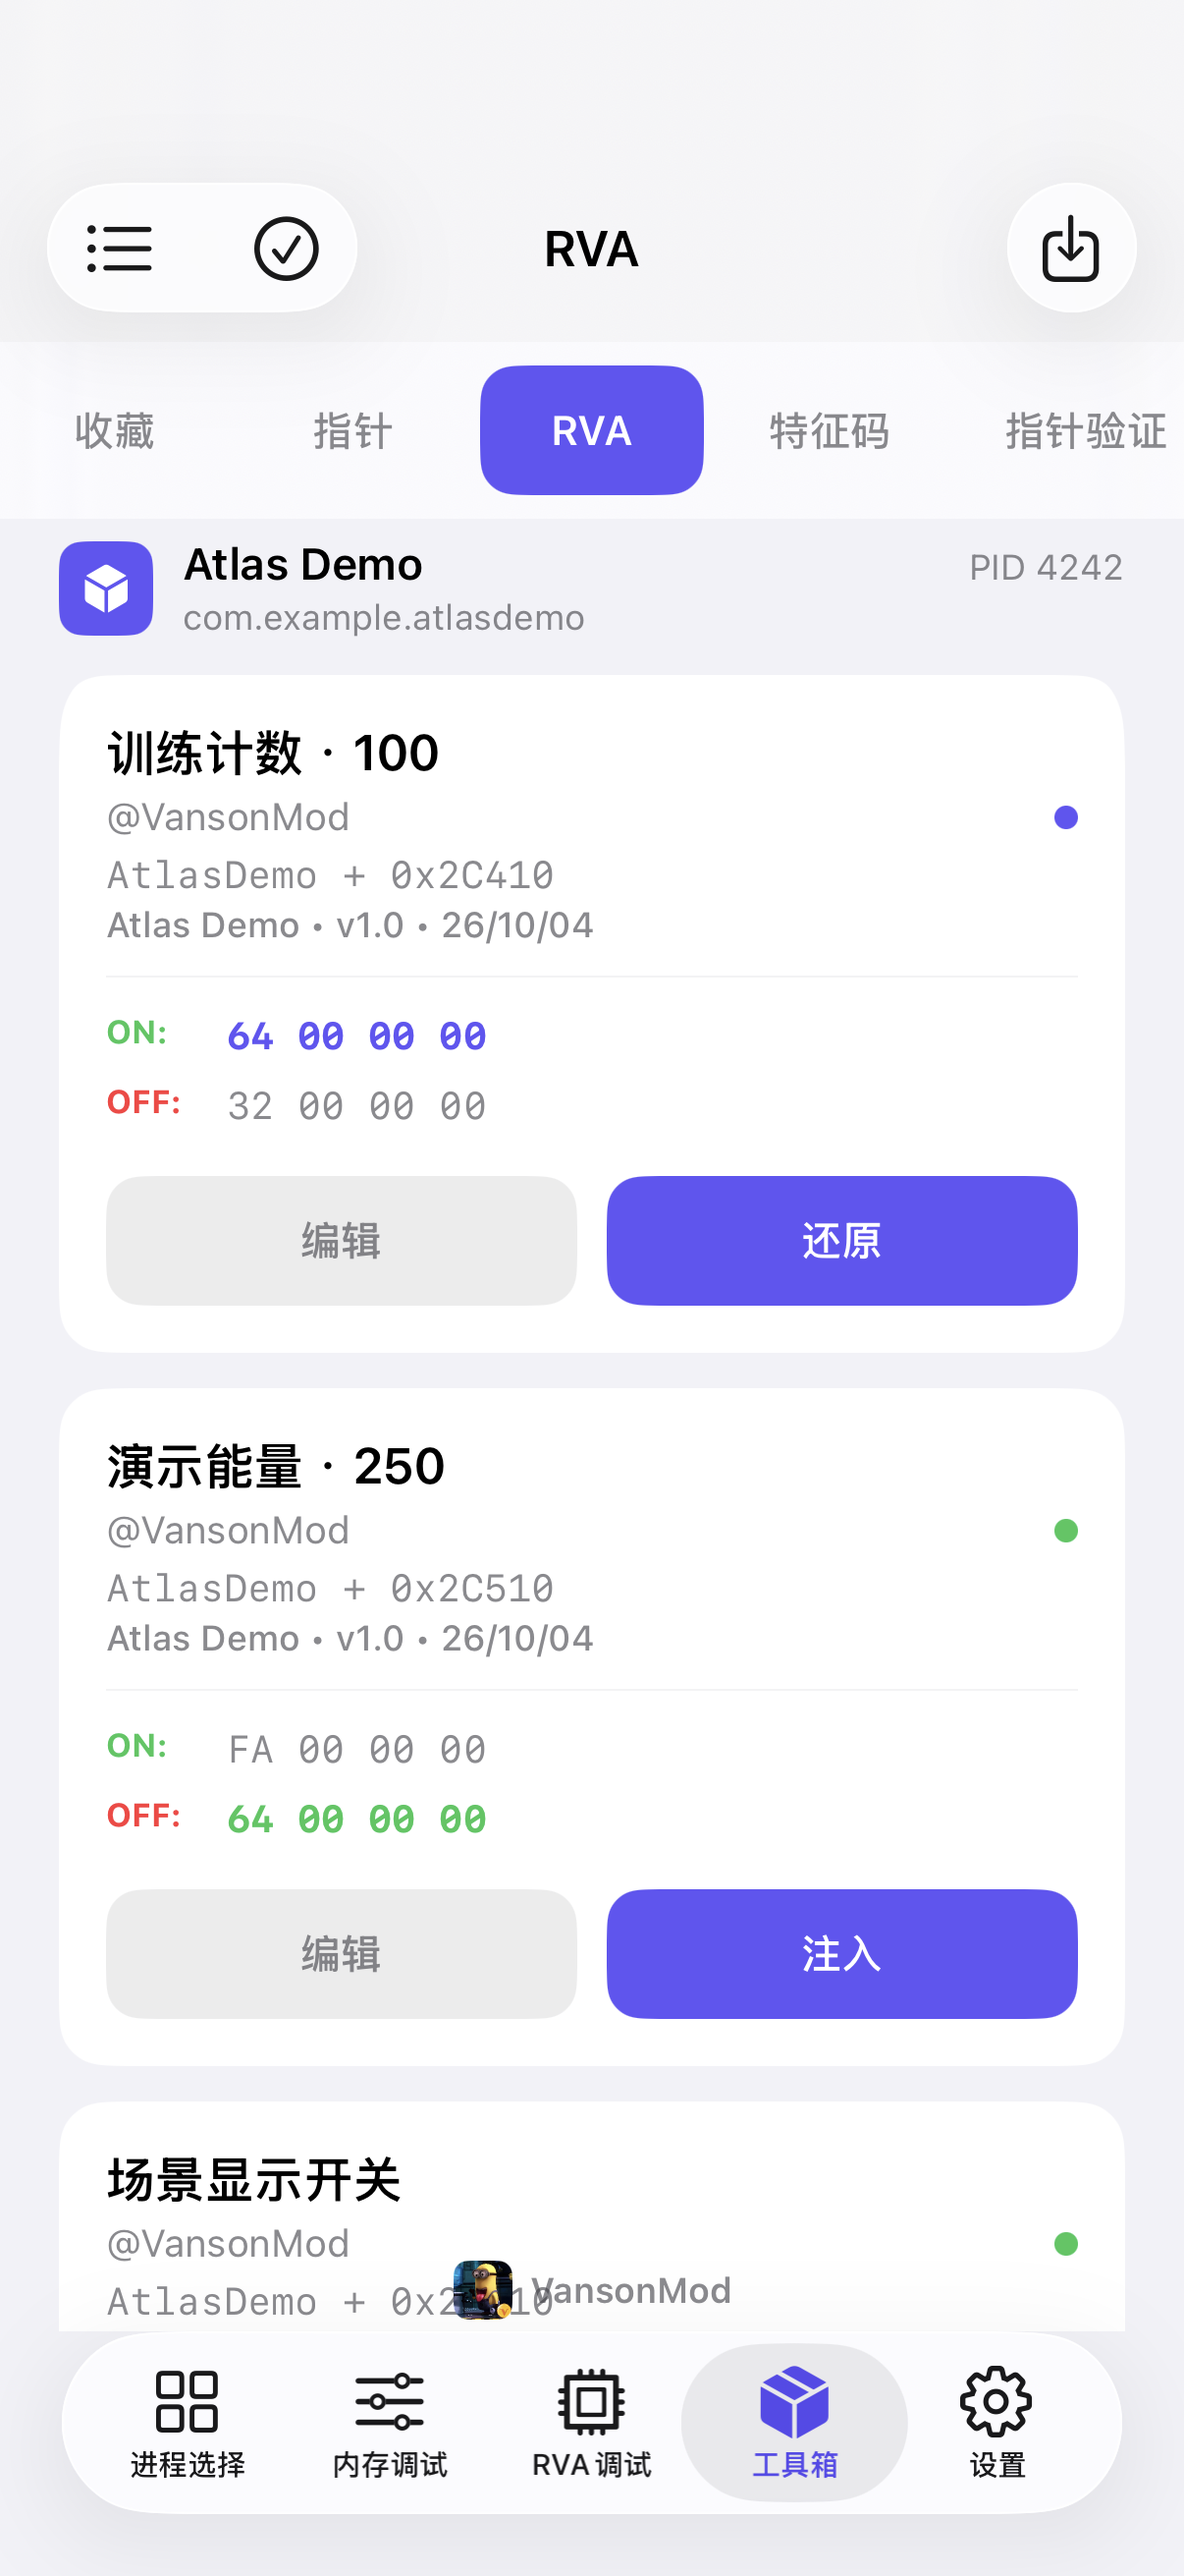
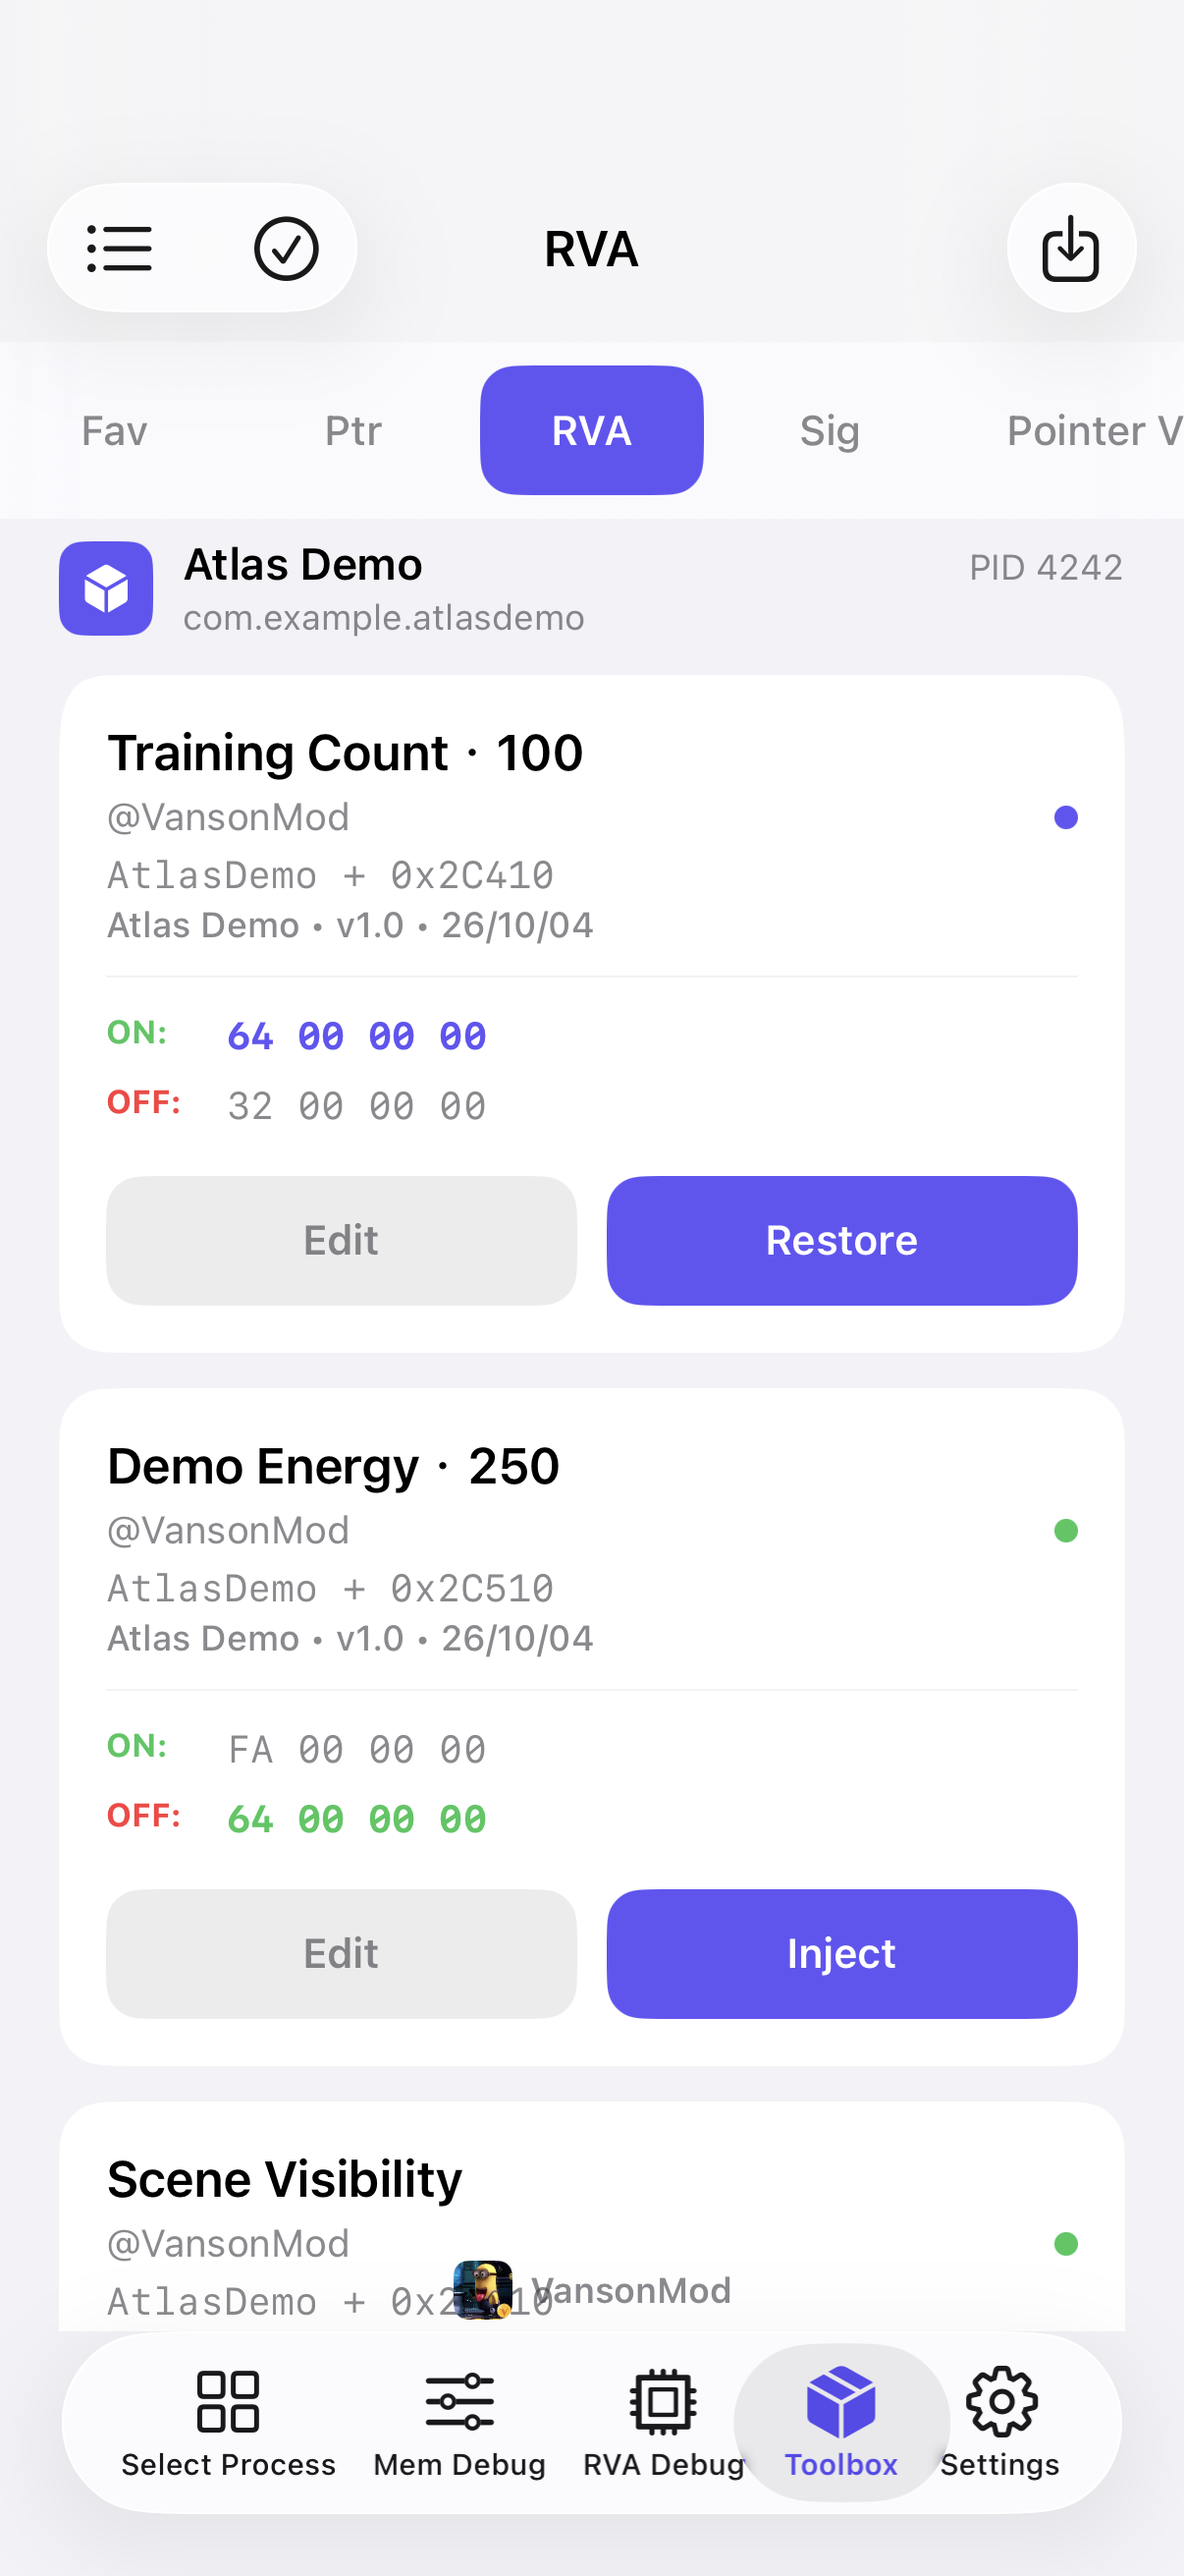
Use English UI and demo text in public screenshots

diff --git a/tests/ReleasePointerScreenshots.h b/tests/ReleasePointerScreenshots.h
@@ -15,7 +15,7 @@
 
 static NSArray<VMPointerChain *> *VMReleaseDemoPointerChains(void) {
   NSMutableArray<VMPointerChain *> *chains = [NSMutableArray array];
-  NSArray<NSString *> *titles = @[@"训练计数", @"演示能量", @"场景开关", @"移动速度", @"进度计数", @"演示分数"];
+  NSArray<NSString *> *titles = @[@"Training Count", @"Demo Energy", @"Scene Toggle", @"Move Speed", @"Progress Count", @"Demo Score"];
   NSArray<NSString *> *values = @[@"100", @"250", @"1", @"1.25", @"100", @"250"];
   for (NSUInteger index = 0; index < titles.count; index++) {
     VMPointerChain *chain = [VMPointerChain new];
@@ -48,7 +48,7 @@ static NSArray<VMPointerChain *> *VMReleaseDemoPointerChains(void) {
 
 static NSArray<VMRVAPatch *> *VMReleaseDemoRVAPatches(void) {
   NSMutableArray<VMRVAPatch *> *patches = [NSMutableArray array];
-  NSArray<NSString *> *titles = @[@"训练计数 · 100", @"演示能量 · 250", @"场景显示开关"];
+  NSArray<NSString *> *titles = @[@"Training Count · 100", @"Demo Energy · 250", @"Scene Visibility"];
   NSArray<NSString *> *patched = @[@"64 00 00 00", @"FA 00 00 00", @"01 00 00 00"];
   NSArray<NSString *> *original = @[@"32 00 00 00", @"64 00 00 00", @"00 00 00 00"];
   for (NSUInteger index = 0; index < titles.count; index++) {
@@ -90,7 +90,8 @@ static NSArray<VMRVAPatch *> *VMReleaseDemoRVAPatches(void) {
 }
 - (void)viewWillDisappear:(BOOL)animated {}
 - (void)updateStatsLabel {
-  ((UILabel *)[self valueForKey:@"statsLabel"]).text = @"搜索结果: 8";
+  ((UILabel *)[self valueForKey:@"statsLabel"]).text =
+      [NSString stringWithFormat:@"%@: 8", [[VMLocalization shared] localizedString:@"Mod_Results_Count"]];
 }
 - (NSInteger)tableView:(UITableView *)tableView numberOfRowsInSection:(NSInteger)section {
   return 8;
@@ -135,7 +136,8 @@ static NSArray<VMRVAPatch *> *VMReleaseDemoRVAPatches(void) {
 - (BOOL)tryAutoAttach { return NO; }
 - (void)updateStatusUI {
   UILabel *name = [self valueForKey:@"appNameLabel"];
-  name.text = @"Atlas Demo - 已连接";
+  name.text = [NSString stringWithFormat:@"Atlas Demo - %@",
+               [[VMLocalization shared] localizedString:@"Status_Connected"]];
   name.textColor = UIColor.labelColor;
   ((UILabel *)[self valueForKey:@"bundleIdLabel"]).text = @"com.example.atlasdemo";
   UIImageView *icon = [self valueForKey:@"statusIcon"];

diff --git a/tests/ReleaseScreenshotHarness.mm b/tests/ReleaseScreenshotHarness.mm
@@ -105,7 +105,7 @@ static void ReleaseInstallFixtures(void) {
   [defaults removeObjectForKey:@"vm_bottom_tab_order"];
   [defaults removeObjectForKey:@"vm_settings_group"];
   [defaults registerDefaults:@{@"resultLimit":@100, @"floatTolerance":@.001, @"groupRange":@"0x100", @"lockInterval":@.5}];
-  [VMLocalization.shared setLanguage:@"zh-Hans"];
+  [VMLocalization.shared setLanguage:@"en"];
   ReleaseInstallFixtures();
   [VMUIHelper installAppearance];
   self.window = [[UIWindow alloc] initWithFrame:UIScreen.mainScreen.bounds];
@@ -128,16 +128,16 @@ static void ReleaseInstallFixtures(void) {
 }
 - (UIViewController *)scriptEditor {
   VMScriptModel *model = [VMScriptModel new];
-  model.note = @"示例结果读取";
+  model.note = @"Read Results";
   model.author = @"VansonMod";
-  model.desc = @"读取示例数据并输出结果";
+  model.desc = @"Read demo values";
   model.bundleID = @"com.example.atlasdemo";
-  model.scriptContent = @"// Atlas Demo · 只读示例\nconst results = vm.getResults(5, 0);\nconst count = vm.getResultsCount();\n\nvm.log('Atlas Demo');\nvm.log('结果数：' + count);\n\nfor (const row of results) {\n  vm.log(row.address + '  ' +\n    row.value);\n}\n";
+  model.scriptContent = @"// Atlas Demo · read-only example\nconst results = vm.getResults(5, 0);\nconst count = vm.getResultsCount();\n\nvm.log('Atlas Demo');\nvm.log('Results: ' + count);\n\nfor (const row of results) {\n  vm.log(row.address + '  ' +\n    row.value);\n}\n";
   VMScriptViewController *page = [VMScriptViewController new];
   page.scriptModel = model;
   [page loadViewIfNeeded];
   UITextView *console = [page valueForKey:@"consoleView"];
-  console.text = @"Atlas Demo\n结果数：12\n0x100806000  100\n0x100806020  100\n0x100806040  250\n0x100806060  100\n0x100806080  100";
+  console.text = @"Atlas Demo\nResults: 12\n0x100806000  100\n0x100806020  100\n0x100806040  250\n0x100806060  100\n0x100806080  100";
   return page;
 }
 - (void)nextCapture {

diff --git a/tests/README.md b/tests/README.md
@@ -131,6 +131,6 @@ bash tests/run_update_manager_tests.sh <booted-simulator-udid>
 bash tests/run_release_screenshots.sh <booted-simulator-udid>
 ```
 
-使用 Apple Silicon iPhone 模拟器生成 `Screenshots/` 中的 12 张展示图，覆盖进程、内存、指针、RVA、脚本表单及深浅色设置。页面由正式 UIKit 控制器绘制；应用、Bundle ID、PID、内存和列表结果均为固定演示数据。截图程序使用独立标识 `com.vanson.local.releasescreenshots`，每次重建自己的沙盒，并在全部截图成功后替换公开图片。
+使用 Apple Silicon iPhone 模拟器生成 `Screenshots/` 中的 12 张英文展示图，界面与演示文本统一使用英文，覆盖进程、内存、指针、RVA、脚本表单及深浅色设置。页面由正式 UIKit 控制器绘制；应用、Bundle ID、PID、内存和列表结果均为固定演示数据。截图程序使用独立标识 `com.vanson.local.releasescreenshots`，每次重建自己的沙盒，并在全部截图成功后替换公开图片。
 
 `ReleaseScreenshotHarness.mm` 和两个截图 fixture 头文件仅用于此独立程序；正式应用的构建入口保持独立。构建日志与抓图日志位于 `.theos/release-screenshots/`。生成后逐张检查图片，并核对根目录和 `docs/` 中各 README 的相对路径。
